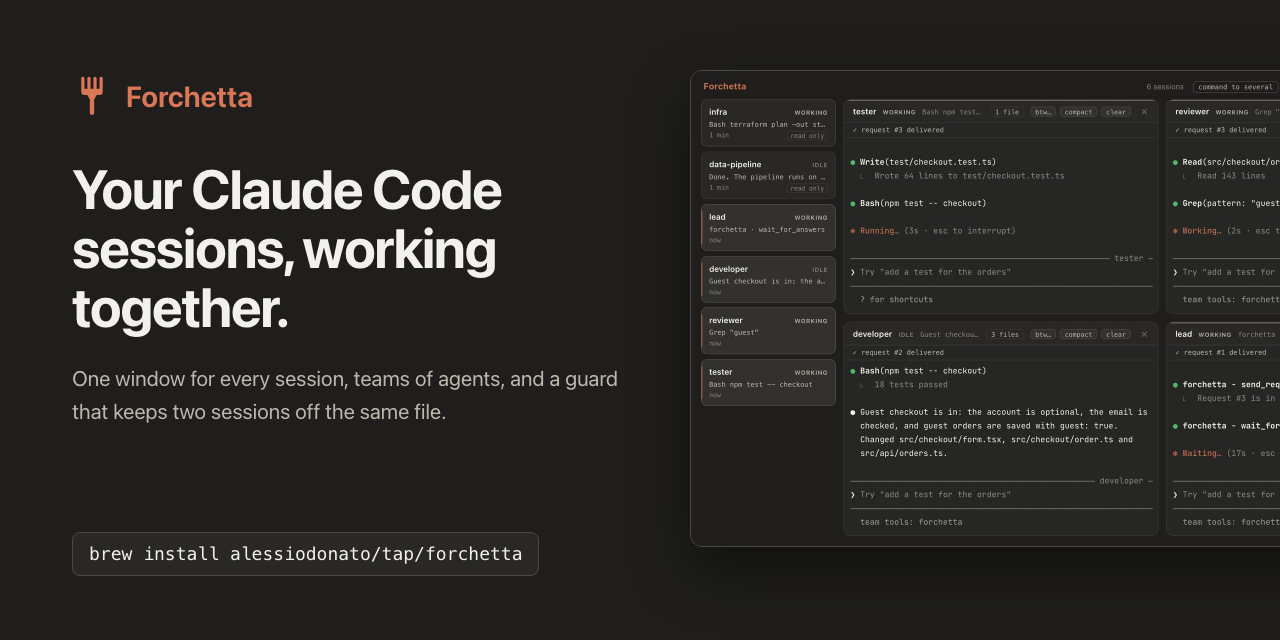
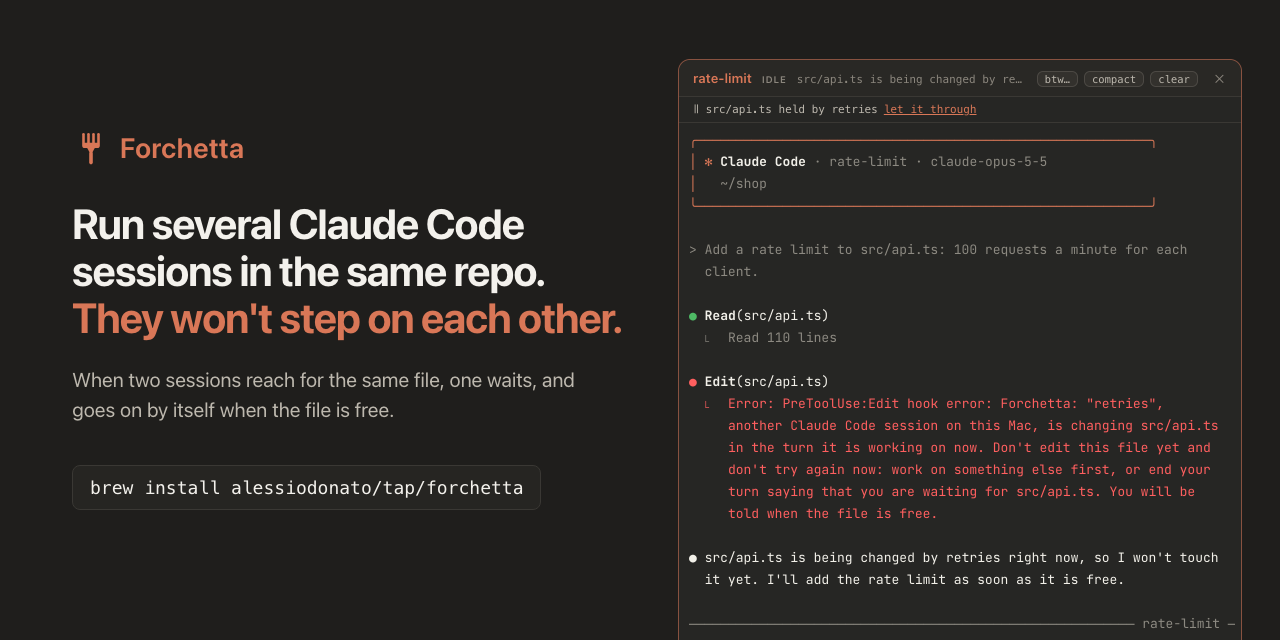
Immagine per le anteprime dei link: lo slogan del vigile
- docs/img/social.png con lo slogan nuovo e, a destra, il riquadro di
  rate-limit fermato dal vigile
- scripts/dev/social.html: la pagina da cui si rifà l'immagine

diff --git a/scripts/dev/social.html b/scripts/dev/social.html
@@ -1,0 +1,66 @@
+<!doctype html>
+<!--
+  The image for link previews: docs/img/social.png, 1280×640, the og:image of the site and of the manual, and the
+  Social preview of the repository on GitHub (Settings → Social preview, uploaded by hand).
+  To make it again: open this page in Chrome at 1280×640 and take a screenshot of the whole page, for example with
+  headless Chrome and Page.captureScreenshot through the DevTools protocol. The panel on the right is a crop of
+  docs/img/guard.png.
+-->
+<html lang="en">
+<head>
+<meta charset="utf-8">
+<title>Forchetta social preview</title>
+<style>
+  :root {
+    --bg: #1f1e1c;
+    --text: #f3f1ec;
+    --text-2: #bdb8ae;
+    --line: #3a3834;
+    --claude: #d97757;
+    --ui: -apple-system, BlinkMacSystemFont, 'SF Pro Display', 'Helvetica Neue', Helvetica, Arial, sans-serif;
+    --mono: ui-monospace, 'SF Mono', SFMono-Regular, Menlo, monospace;
+  }
+  html, body { margin: 0; }
+  body {
+    position: relative;
+    width: 1280px;
+    height: 640px;
+    overflow: hidden;
+    background: var(--bg);
+    color: var(--text);
+    font-family: var(--ui);
+    -webkit-font-smoothing: antialiased;
+  }
+  .left { position: absolute; left: 72px; top: 0; bottom: 0; width: 580px; display: flex; flex-direction: column; justify-content: center; align-items: flex-start; }
+  .brand { display: flex; align-items: center; gap: 12px; color: var(--claude); font-size: 28px; font-weight: 620; letter-spacing: 0.005em; }
+  .brand svg { width: 36px; height: 36px; }
+  h1 { margin: 34px 0 0; font-size: 42px; line-height: 1.12; font-weight: 680; letter-spacing: -0.03em; }
+  h1 em { display: block; font-style: normal; color: var(--claude); }
+  p { width: 540px; margin: 24px 0 0; font-size: 20px; line-height: 1.5; color: var(--text-2); }
+  code { margin-top: 40px; padding: 11px 17px; border: 1px solid var(--line); border-radius: 8px; background: #262522; font-family: var(--mono); font-size: 18px; color: var(--text); }
+  /* The pane of rate-limit, stopped by the guard: a crop of docs/img/guard.png (2800×1572, shown at half size). */
+  .shot {
+    position: absolute;
+    left: 676px;
+    top: 58px;
+    width: 568px;
+    height: 640px;
+    background: url(../../docs/img/guard.png) no-repeat;
+    background-size: 1400px 786px;
+    background-position: -818px -44px;
+  }
+</style>
+</head>
+<body>
+  <div class="left">
+    <div class="brand">
+      <svg viewBox="0 0 18 18" aria-hidden="true"><g fill="#d97757"><rect x="5.1" y="1.5" width="1.3" height="6" rx=".65"/><rect x="7.6" y="1.5" width="1.3" height="6" rx=".65"/><rect x="10.1" y="1.5" width="1.3" height="6" rx=".65"/><rect x="12.6" y="1.5" width="1.3" height="6" rx=".65"/><rect x="5.1" y="6.4" width="8.8" height="2.6" rx="1.3"/><path d="M7.4 8.6h4.2l-1.5 2.8H8.9z"/><rect x="8.6" y="10.8" width="1.8" height="6.4" rx=".9"/></g></svg>
+      Forchetta
+    </div>
+    <h1>Run several Claude Code sessions in the same repo. <em>They won't step on each other.</em></h1>
+    <p>When two sessions reach for the same file, one waits, and goes on by itself when the file is free.</p>
+    <code>brew install alessiodonato/tap/forchetta</code>
+  </div>
+  <div class="shot" role="img" aria-label="The pane of rate-limit: its edit of src/api.ts stopped by the guard, because retries is changing it, and Claude saying it will wait."></div>
+</body>
+</html>
